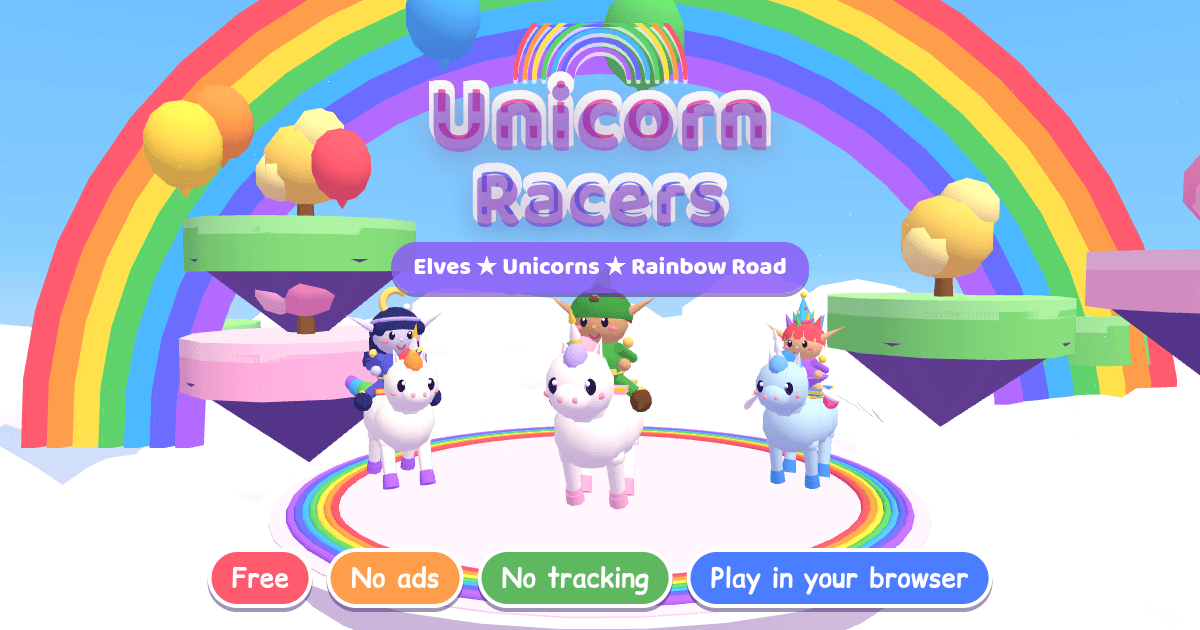
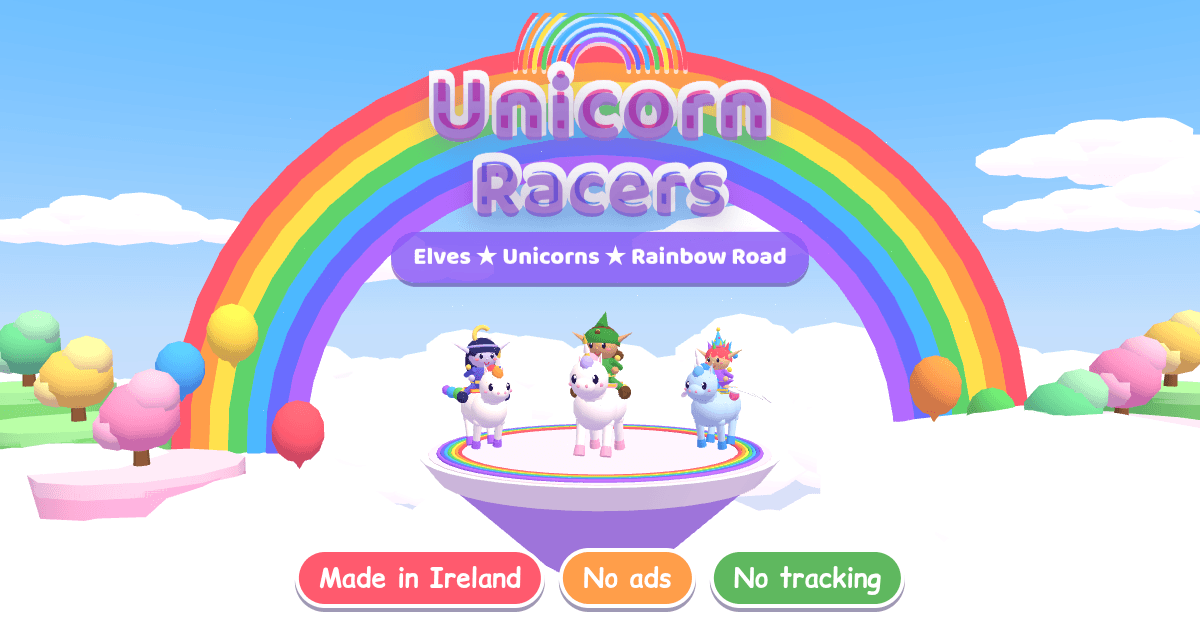
Unicorn Racers 1.12.4 (src 5d70fb7)

diff --git a/index.html b/index.html
@@ -2,8 +2,8 @@
 <html lang="en">
 <head>
 <meta charset="utf-8">
-<title>Unicorn Racers – free kids' 3D kart racing game with elves and unicorns</title>
-<meta name="description" content="Race elves on unicorns over a rainbow road! A free, ad-free 3D kart racing game for kids. No tracking, no sign-up – plays right in your browser.">
+<title>Unicorn Racers – kids' 3D kart racing game with elves and unicorns</title>
+<meta name="description" content="Race elves on unicorns over a rainbow road! A 3D kart racing game for kids, made in Ireland. No ads, no tracking, no sign-up.">
 <meta name="viewport" content="width=device-width,initial-scale=1,maximum-scale=1,user-scalable=no,viewport-fit=cover">
 <meta name="theme-color" content="#2a1d5c">
 <meta name="color-scheme" content="dark light">
@@ -22,21 +22,21 @@
 <link rel="apple-touch-icon" href="apple-touch-icon.png" sizes="180x180">
 <meta property="og:type" content="website">
 <meta property="og:site_name" content="Unicorn Racers">
-<meta property="og:title" content="Unicorn Racers – free kids' unicorn racing game">
-<meta property="og:description" content="Free kids' racing game: elves on unicorns over a rainbow. No ads, no tracking. Play instantly in your browser.">
+<meta property="og:title" content="Unicorn Racers – kids' unicorn racing game">
+<meta property="og:description" content="Elves race unicorns over a rainbow. Made in Ireland, no ads, no tracking.">
 <meta property="og:url" content="https://unicorn-racers.games.mikai.ai/">
 <meta property="og:image" content="https://unicorn-racers.games.mikai.ai/og-image.png">
 <meta property="og:image:type" content="image/png">
 <meta property="og:image:width" content="1200">
 <meta property="og:image:height" content="630">
-<meta property="og:image:alt" content="Unicorn Racers title screen: three elves riding unicorns under a rainbow, with the badges Free, No ads, No tracking">
+<meta property="og:image:alt" content="Unicorn Racers title screen: three elves riding unicorns under a rainbow, with the badges Made in Ireland, No ads, No tracking">
 <meta property="og:locale" content="en_IE">
 <meta name="twitter:card" content="summary_large_image">
-<meta name="twitter:title" content="Unicorn Racers – free kids' unicorn racing game">
-<meta name="twitter:description" content="Free kids' racing game: elves on unicorns over a rainbow. No ads, no tracking. Play instantly in your browser.">
+<meta name="twitter:title" content="Unicorn Racers – kids' unicorn racing game">
+<meta name="twitter:description" content="Elves race unicorns over a rainbow. Made in Ireland, no ads, no tracking.">
 <meta name="twitter:image" content="https://unicorn-racers.games.mikai.ai/og-image.png">
-<meta name="twitter:image:alt" content="Unicorn Racers title screen: three elves riding unicorns under a rainbow, with the badges Free, No ads, No tracking">
-<script type="application/ld+json">{"@context": "https://schema.org", "@type": "VideoGame", "name": "Unicorn Racers", "description": "Race elves on unicorns over a rainbow road! A free, ad-free 3D kart racing game for kids. No tracking, no sign-up – plays right in your browser.", "url": "https://unicorn-racers.games.mikai.ai/", "image": "https://unicorn-racers.games.mikai.ai/og-image.png", "applicationCategory": "Game", "genre": ["Racing", "Kids", "Family"], "gamePlatform": "Web browser", "operatingSystem": "Any", "playMode": "SinglePlayer", "inLanguage": "en", "isAccessibleForFree": true, "audience": {"@type": "PeopleAudience", "suggestedMinAge": 4}, "offers": {"@type": "Offer", "price": "0", "priceCurrency": "EUR", "availability": "https://schema.org/InStock"}, "isFamilyFriendly": true}</script>
+<meta name="twitter:image:alt" content="Unicorn Racers title screen: three elves riding unicorns under a rainbow, with the badges Made in Ireland, No ads, No tracking">
+<script type="application/ld+json">{"@context": "https://schema.org", "@type": "VideoGame", "name": "Unicorn Racers", "description": "Race elves on unicorns over a rainbow road! A 3D kart racing game for kids, made in Ireland. No ads, no tracking, no sign-up.", "url": "https://unicorn-racers.games.mikai.ai/", "image": "https://unicorn-racers.games.mikai.ai/og-image.png", "applicationCategory": "Game", "genre": ["Racing", "Kids", "Family"], "gamePlatform": "Web browser", "operatingSystem": "Any", "playMode": "SinglePlayer", "inLanguage": "en", "isAccessibleForFree": true, "audience": {"@type": "PeopleAudience", "suggestedMinAge": 4}, "offers": {"@type": "Offer", "price": "0", "priceCurrency": "EUR", "availability": "https://schema.org/InStock"}, "isFamilyFriendly": true}</script>
 <style>:root{--sat:env(safe-area-inset-top,0px);--sar:env(safe-area-inset-right,0px);--sab:env(safe-area-inset-bottom,0px);--sal:env(safe-area-inset-left,0px);--f:"Baloo 2","Fredoka","Arial Rounded MT Bold","Trebuchet MS","Comic Sans MS","Segoe UI",system-ui,sans-serif;--pink:#ff5fa2;--pink2:#d93a82;--purple:#8b5cf6;--green:#35c759;--green2:#1f9a3d;--blue:#3aa8ff;--yellow:#ffd93d;--ink:#4a2a7a}
 *{box-sizing:border-box;-webkit-tap-highlight-color:transparent;-webkit-user-select:none;user-select:none}
 html,body{margin:0;height:100%;overflow:hidden;background:#2a1d5c;font-family:var(--f);color:var(--ink);touch-action:none}

diff --git a/privacy.html b/privacy.html
@@ -24,7 +24,7 @@
 <header><img src="icon-192.png" alt=""><h1>Unicorn Racers<br><small style="font-size:16px;font-weight:400">Privacy Policy</small></h1></header>
 <p class="badges"><span>No ads</span><span>No tracking</span><span>No accounts</span><span>No data collected</span></p>
 <p><strong>Last updated: 27 October 2026</strong></p>
-<p>Unicorn Racers is a free game for children, made by Gerard Halligan. It is designed so that it needs nothing from you or your child except a screen to play on.</p>
+<p>Unicorn Racers is a game for children, made by Gerard Halligan. It is designed so that it needs nothing from you or your child except a screen to play on.</p>
 
 <h2>What we collect</h2>
 <p><strong>Nothing.</strong> Unicorn Racers does not collect, store on a server, share or sell any personal information. There is no sign-up, no login, no account, no email address, no name, no location, no contacts, no photos, no microphone or camera use, and no advertising ID.</p>
